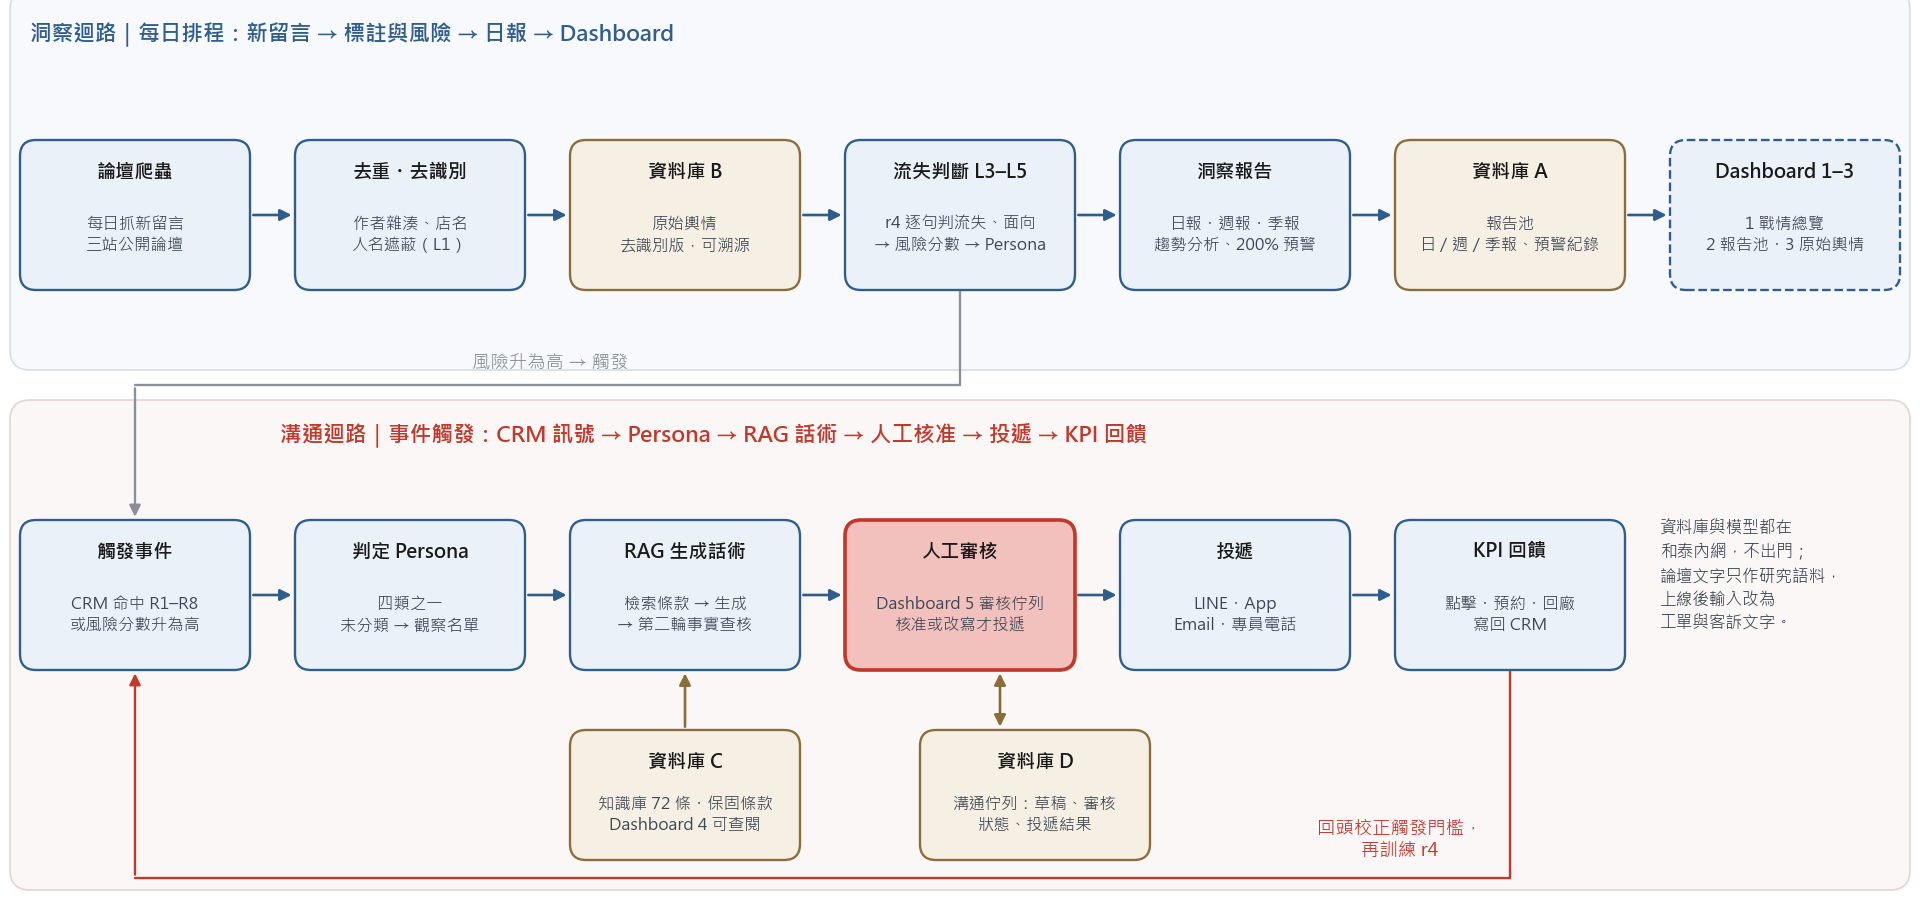
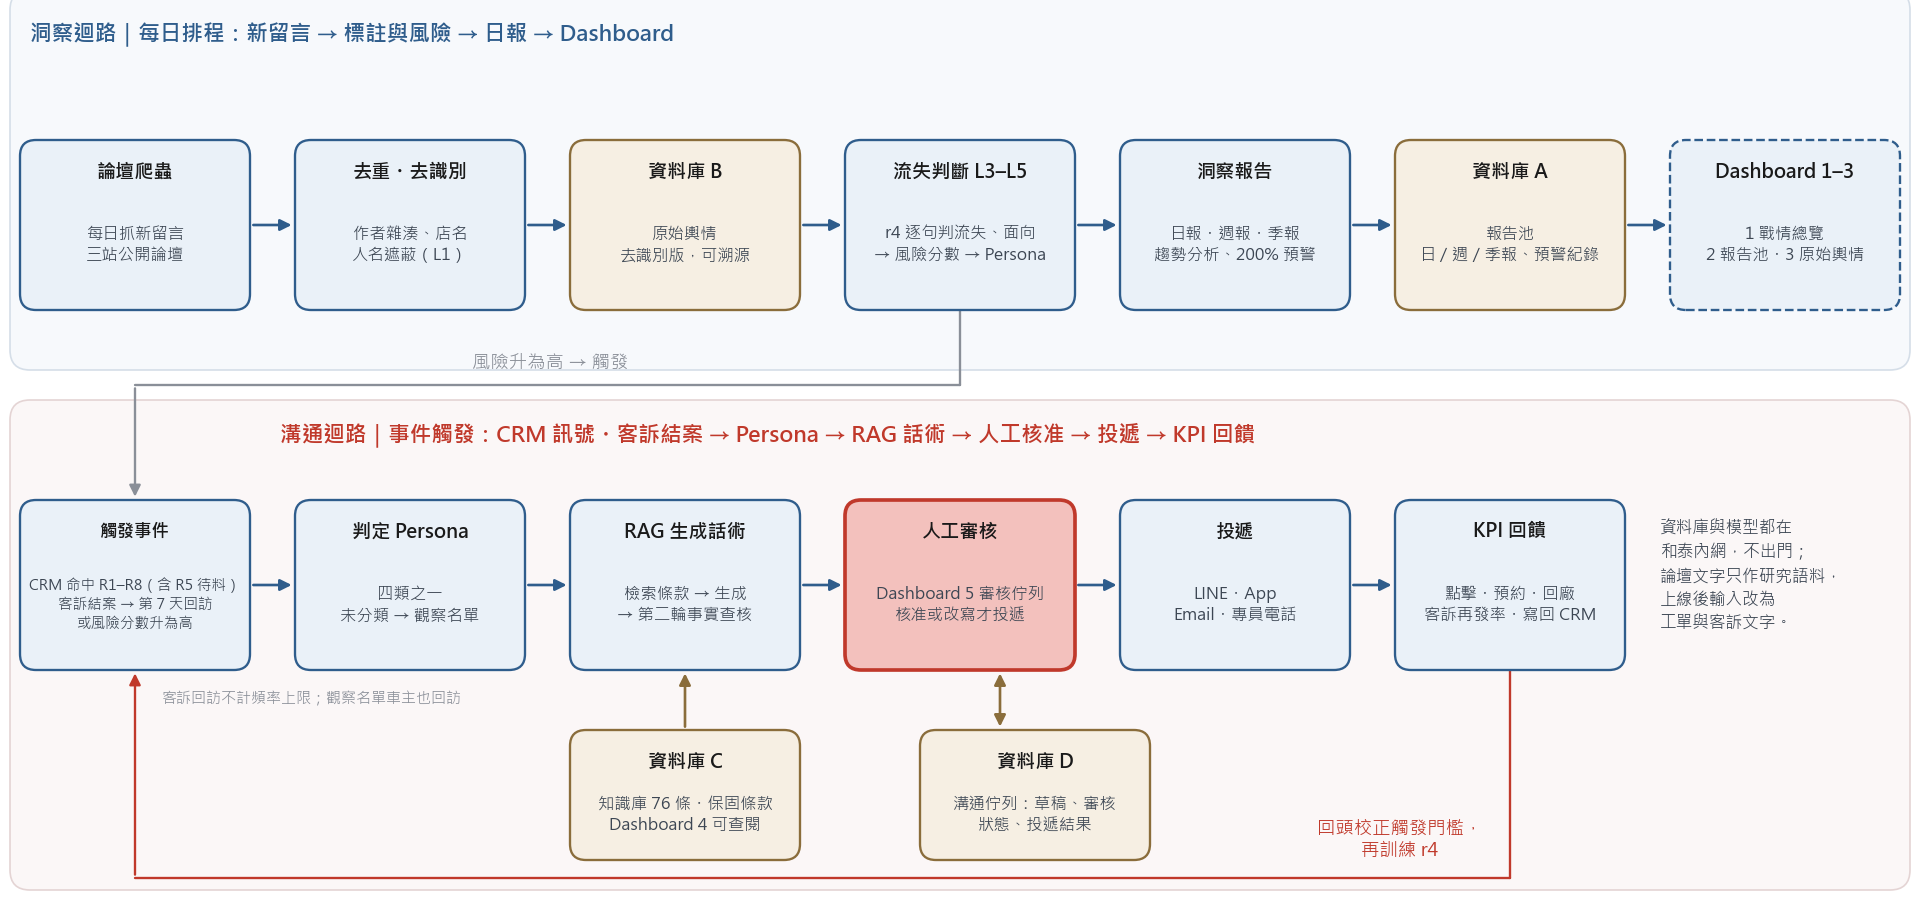
F8 補上客訴結案觸發與待料通知，簡報升到 v2.4，讓客訴這條線出現在流程圖裡。

diff --git a/pipeline/make_flow_figure.py b/pipeline/make_flow_figure.py
@@ -61,10 +61,10 @@ def main():
     ax.add_patch(FancyBboxPatch((1, 52), 190, 38, boxstyle="round,pad=0,rounding_size=2", fc=BAND_TOP, ec="#D5DEE8", lw=1, zorder=1))
     ax.add_patch(FancyBboxPatch((1, 0), 190, 49, boxstyle="round,pad=0,rounding_size=2", fc=BAND_BOT, ec="#E4D4D4", lw=1, zorder=1))
     ax.text(3, 85.5, "洞察迴路｜每日排程：新留言 → 標註與風險 → 日報 → Dashboard", fontsize=13, fontweight="bold", color=BLUE, va="center")
-    ax.text(28, 45.5, "溝通迴路｜事件觸發：CRM 訊號 → Persona → RAG 話術 → 人工核准 → 投遞 → KPI 回饋", fontsize=13, fontweight="bold", color=HUMAN_EDGE, va="center")
+    ax.text(28, 45.5, "溝通迴路｜事件觸發：CRM 訊號・客訴結案 → Persona → RAG 話術 → 人工核准 → 投遞 → KPI 回饋", fontsize=13, fontweight="bold", color=HUMAN_EDGE, va="center")
 
-    # 上帶：7 個方塊
-    w, h, yt = 23, 15, 60
+    # 上帶：7 個方塊。下帶觸發方塊改三行後，上下方塊一起加高 2，避免字擠出框。
+    w, h, yt = 23, 17, 58
     xs = [2, 29.5, 57, 84.5, 112, 139.5, 167]
     top = [
         ("論壇爬蟲", "每日抓新留言\n三站公開論壇", PROC, BLUE),
@@ -83,20 +83,24 @@ def main():
     # 下帶：6 個方塊 + 2 個資料庫
     yb = 22
     bot = [
-        ("觸發事件", "CRM 命中 R1–R8\n或風險分數升為高", PROC, BLUE),
+        ("觸發事件", "CRM 命中 R1–R8（含 R5 待料）\n客訴結案 → 第 7 天回訪\n或風險分數升為高", PROC, BLUE),
         ("判定 Persona", "四類之一\n未分類 → 觀察名單", PROC, BLUE),
         ("RAG 生成話術", "檢索條款 → 生成\n→ 第二輪事實查核", PROC, BLUE),
         ("人工審核", "Dashboard 5 審核佇列\n核准或改寫才投遞", HUMAN_FILL, HUMAN_EDGE),
         ("投遞", "LINE・App\nEmail・專員電話", PROC, BLUE),
-        ("KPI 回饋", "點擊・預約・回廠\n寫回 CRM", PROC, BLUE),
+        ("KPI 回饋", "點擊・預約・回廠\n客訴再發率・寫回 CRM", PROC, BLUE),
     ]
     for x, (head, body, f, e) in zip(xs[:6], bot):
-        box(ax, x, yb, w, h, head + "\n" + body, fill=f, edge=e, lw=2.2 if head == "人工審核" else 1.4)
+        box(ax, x, yb, w, h, head + "\n" + body, fill=f, edge=e, lw=2.2 if head == "人工審核" else 1.4,
+            size=10 if head == "觸發事件" else 11)
     for a, b in zip(xs[:5], xs[1:6]):
         arrow(ax, (a + w, yb + h / 2), (b, yb + h / 2))
+    # 回饋箭在 x=13.5 垂直上升，小字改放箭頭右側，仍在觸發方塊正下方。
+    ax.text(16.2, 19.0, "客訴回訪不計頻率上限；觀察名單車主也回訪", fontsize=9, color=GREY,
+            ha="left", va="center", zorder=4)
 
     # 資料庫 C、D 與 Dashboard 4
-    box(ax, 57, 3, 23, 13, "資料庫 C\n知識庫 72 條・保固條款\nDashboard 4 可查閱", fill=DB_FILL, edge=DB_EDGE)
+    box(ax, 57, 3, 23, 13, "資料庫 C\n知識庫 76 條・保固條款\nDashboard 4 可查閱", fill=DB_FILL, edge=DB_EDGE)
     arrow(ax, (68.5, 16), (68.5, yb), color=DB_EDGE)
     box(ax, 92, 3, 23, 13, "資料庫 D\n溝通佇列：草稿、審核\n狀態、投遞結果", fill=DB_FILL, edge=DB_EDGE)
     arrow(ax, (100, yb), (100, 16), color=DB_EDGE, style="<|-|>")

diff --git a/deck/build_deck.py b/deck/build_deck.py
@@ -8,7 +8,7 @@
 模板：attachments/2026和泰AI黑客松＿初賽簡報模板.pptx
 輸出：deck/初賽簡報_vX.Y.pptx、deck/初賽簡報_latest.pptx、deck/README.md；
 若本機有 PowerPoint，另匯 deck/preview/初賽簡報_vX.Y.pdf 與 deck/preview/vX.Y/。
-內容是 v2.3（22 張：封面、摘要、P1–P15、A1–A5）。
+內容是 v2.4（22 張：封面、摘要、P1–P15、A1–A5）。
 """
 
 from __future__ import annotations
@@ -31,7 +31,7 @@ from pptx.util import Inches, Pt
 ROOT = Path(__file__).resolve().parents[1]
 # 版號。每次改簡報內容都要升號：小改 +0.1，PO 審過的里程碑升整數。
 # --version X.Y 可覆蓋。同版號已在 deck/versions/ 時，未加 --force 會中止。
-DECK_VERSION = "2.3"
+DECK_VERSION = "2.4"
 README = ROOT / "deck" / "README.md"
 PREVIEW = ROOT / "deck" / "preview"
 VERSIONS = ROOT / "deck" / "versions"
@@ -69,7 +69,7 @@ NOTES = [
     "零件勝算比二點五八、價格二點六四，分母兩萬一千句。",
     "出口在一般外廠；定保口述中位原廠九千、外廠三千五，不是公告價。",
     "IQR 定 78 字門檻，上游已去掉 15,182 句重複。",
-    "兩個迴路：洞察每天進報告池，關懷由事件觸發，人審核過才投遞。",
+    "兩個迴路：洞察每天進報告池，關懷由客訴結案等事件觸發，審核後才投遞。",
     "分群只獨立支持靜默出走者；其餘 Persona 用規則定義。",
     "高風險七成四真有流失句；過保精算派人最多，平均風險也最高。",
     "人工兩人 κ 0.40，不一致處要經仲裁後才成為金標。",

diff --git a/deck/README.md b/deck/README.md
@@ -1,11 +1,11 @@
-# 初賽簡報 v2.3
+# 初賽簡報 v2.4
 
-和泰 AI 黑客松題 3 初賽簡報。數字轉抄自報告，未在產生腳本裡重算。本版檔名是 `初賽簡報_v2.3.pptx`，最新複本是 `初賽簡報_latest.pptx`。占位若還有，是橘色字，形式為 `【待補：說明】`。
+和泰 AI 黑客松題 3 初賽簡報。數字轉抄自報告，未在產生腳本裡重算。本版檔名是 `初賽簡報_v2.4.pptx`，最新複本是 `初賽簡報_latest.pptx`。占位若還有，是橘色字，形式為 `【待補：說明】`。
 
 ## 版本
 
-- 目前版號：v2.3。
-- 檔名規則：`deck/初賽簡報_v2.3.pptx`、`deck/preview/初賽簡報_v2.3.pdf`、`deck/preview/v2.3/slide-NN.png`。每次建置用新版號，不覆蓋舊版檔。
+- 目前版號：v2.4。
+- 檔名規則：`deck/初賽簡報_v2.4.pptx`、`deck/preview/初賽簡報_v2.4.pdf`、`deck/preview/v2.4/slide-NN.png`。每次建置用新版號，不覆蓋舊版檔。
 - 怎麼升號：小改 +0.1；PO 審過的里程碑升整數。改 `DECK_VERSION` 或傳 `--version X.Y`。`deck/versions/` 已有同版號且未加 `--force` 時，建置中止。
 - 變更紀錄：`deck/CHANGELOG.md`（新的一列在表格最上方）。
 - 最新複本：`deck/初賽簡報_latest.pptx` 與 `deck/preview/初賽簡報_latest.pdf` 是本次建置的複本，給 Issue 連結用，每次建置覆寫這兩個檔。
@@ -77,6 +77,6 @@ python deck/build_deck.py --version X.Y --note "一句變更說明"
 
 ## 預覽
 
-已用 PowerPoint 匯出 `deck/preview/初賽簡報_v2.3.pdf` 與 `deck/preview/v2.3/slide-01.png`–`slide-22.png`。
+已用 PowerPoint 匯出 `deck/preview/初賽簡報_v2.4.pdf` 與 `deck/preview/v2.4/slide-01.png`–`slide-22.png`。
 
 例句取自 `reports/T10_risk_persona_report.md` §6 的去識別代表句，不讀論壇帳號。P7 沒用到的較長句（含店名者）沒有放上投影片。

diff --git a/L7運作流程_2026-09-30.md b/L7運作流程_2026-09-30.md
@@ -2,7 +2,7 @@
 
 本文件是**總覽**（兩個迴路、資料庫、Dashboard）；溝通迴路的逐步規格（觸發規則對接觸點、Persona 優先序、審核必對項目、投遞頻率、KPI 回饋週期）在 B 主筆的 `L7運作流程_草稿.md`。Issue #7 四項已定案，寫入該草稿。
 
-題目產出 2 要求「該 AI 方案的實際運作流程圖」。本文件是流程圖的文字版與設計依據，圖在 `reports/figures/F8.png`（`pipeline/make_flow_figure.py` 產生），簡報 P6 使用。
+題目產出 2 要求「該 AI 方案的實際運作流程圖」。本文件是流程圖的文字版與設計依據，圖在 `reports/figures/F8.png`（`pipeline/make_flow_figure.py` 產生），簡報 P6 使用。F8 已含客訴結案觸發（T24）。
 
 系統分成兩個迴路：**洞察迴路**每日跑，把論壇輿情變成報告；**溝通迴路**由事件觸發，對單一車主生成關懷話術，經人工核准才投遞。四個資料庫、五個 Dashboard 串起兩個迴路。
 

diff --git a/deck/CHANGELOG.md b/deck/CHANGELOG.md
@@ -4,6 +4,7 @@
 
 | 版號 | 日期 | commit | 張數 | 變更摘要 | 相關 Issue／任務 |
 | --- | --- | --- | --- | --- | --- |
+| v2.4 | 2026-10-02 | 5eef291 | 22／15 | F8 流程圖補客訴結案觸發與待料通知，知識庫 76 條 | — |
 | v2.3 | 2026-10-02 | 479a952 | 22／15 | T23：建立版本迭代制；內容同 v2.3 | — |
 | v2.3 | 2026-10-01 | 218a648 | 22 | 正文數字以 2026 手冊為準，拿掉 25 項（T22） | T22 |
 | v2.2 | 2026-10-01 | 22417f1 | 22 | 待料兩則依 #10 第二輪重寫（T21） | T21、#10 |
